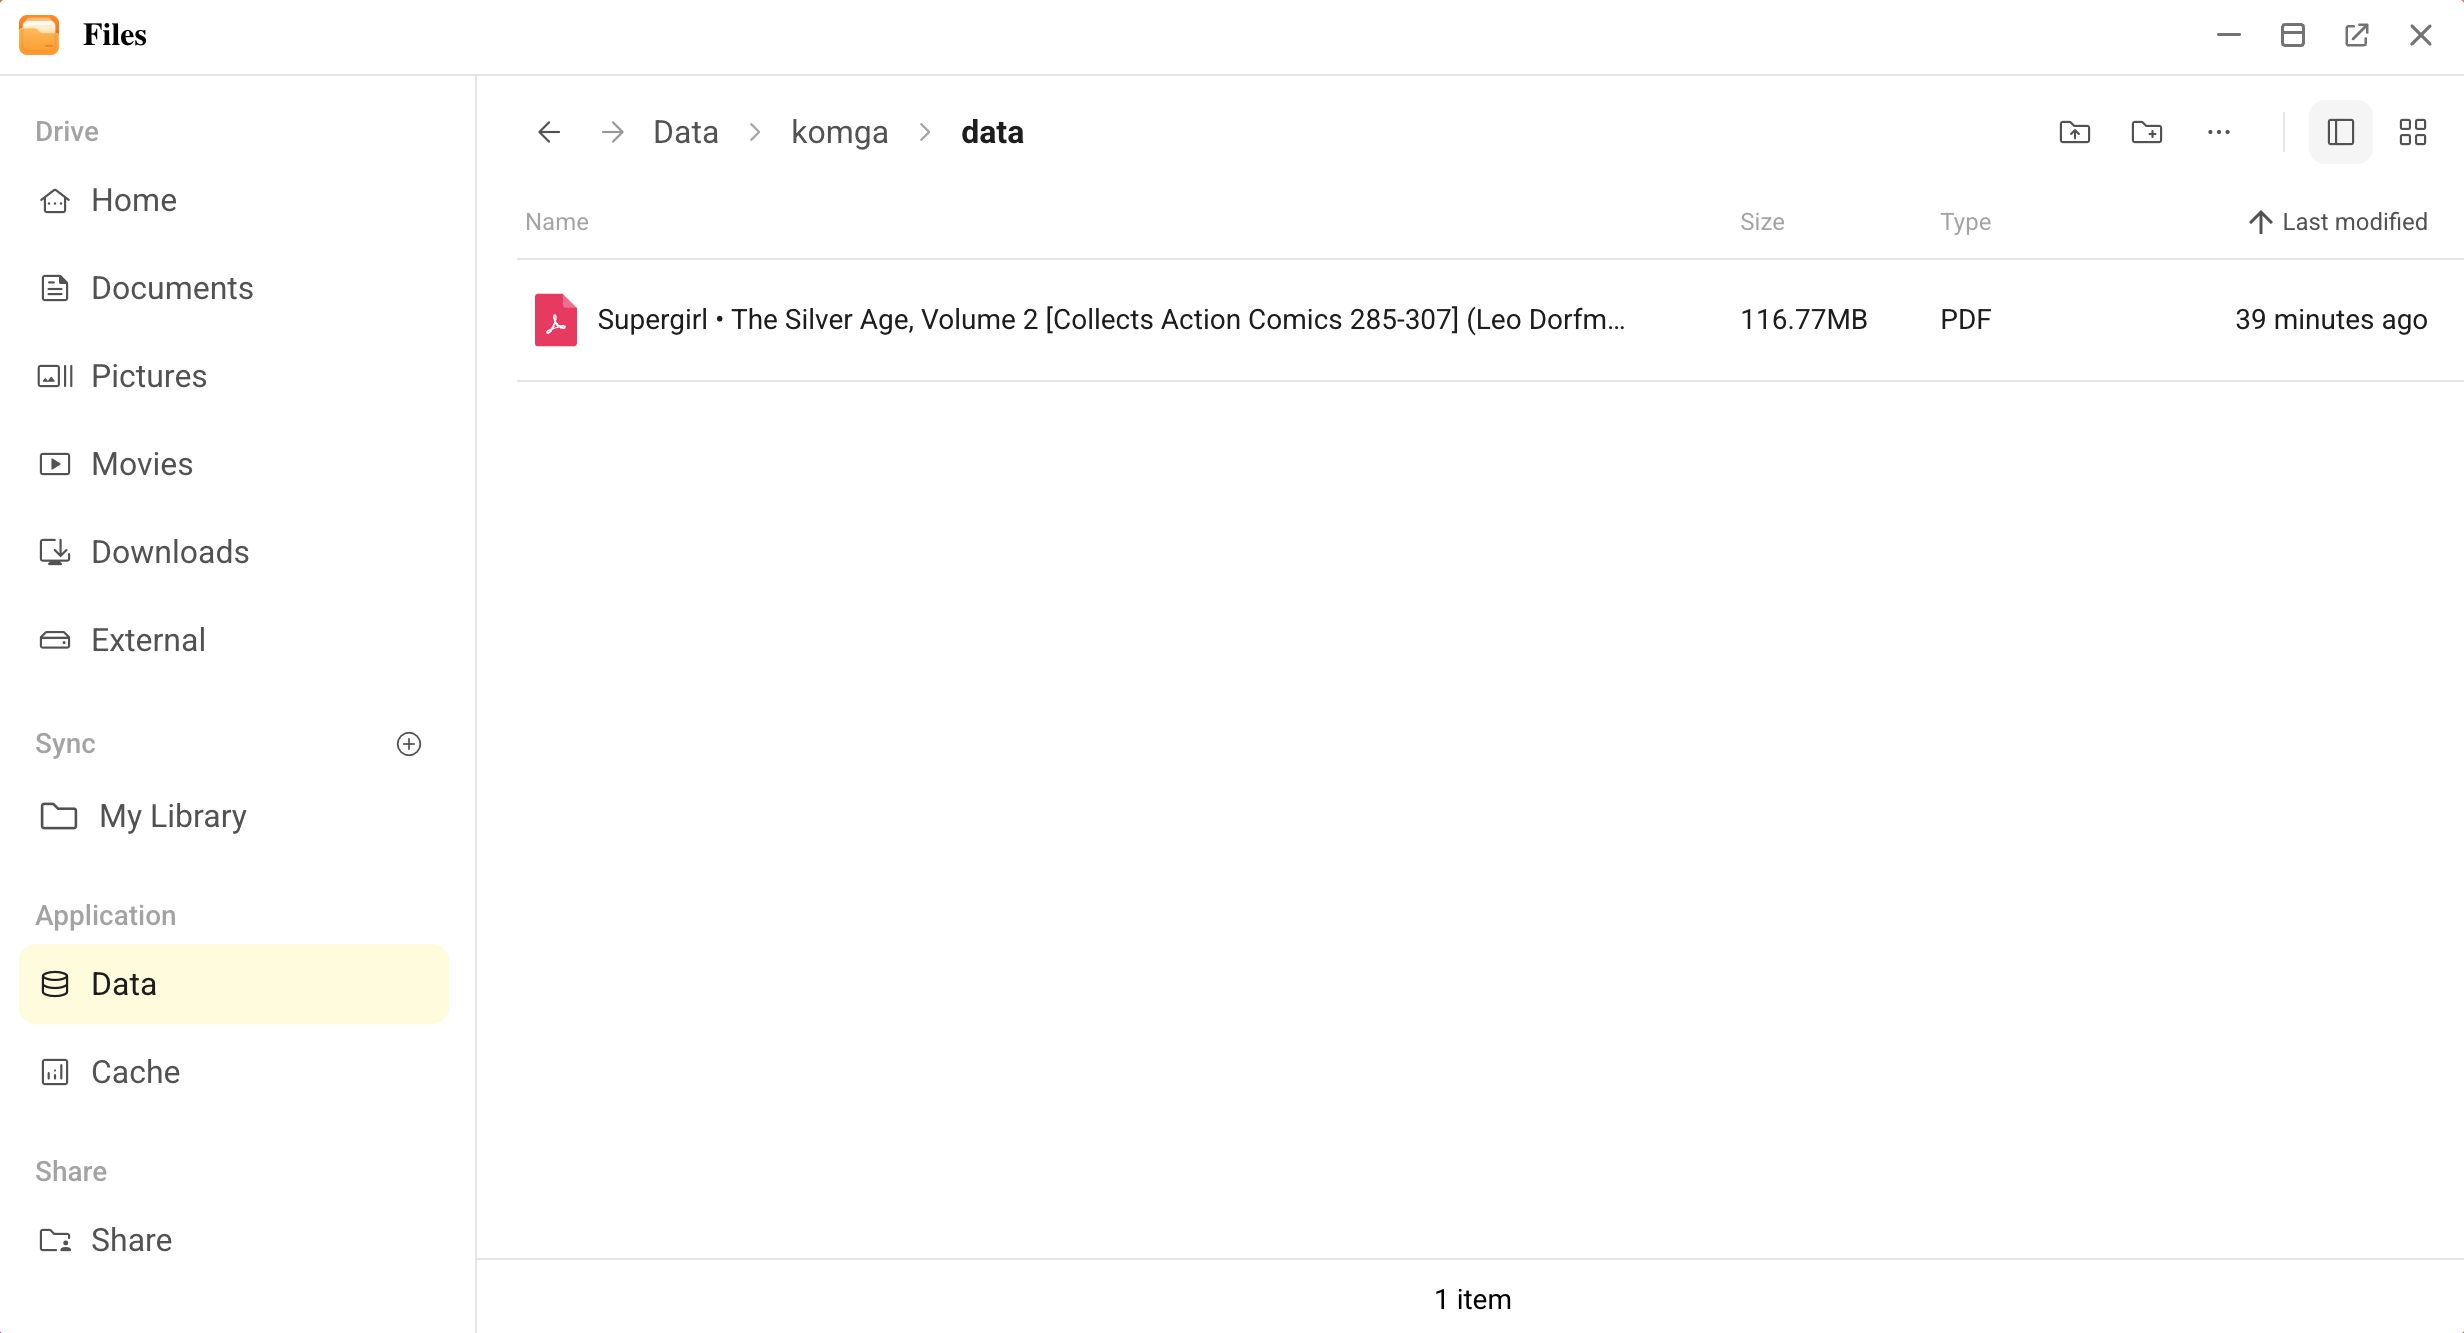
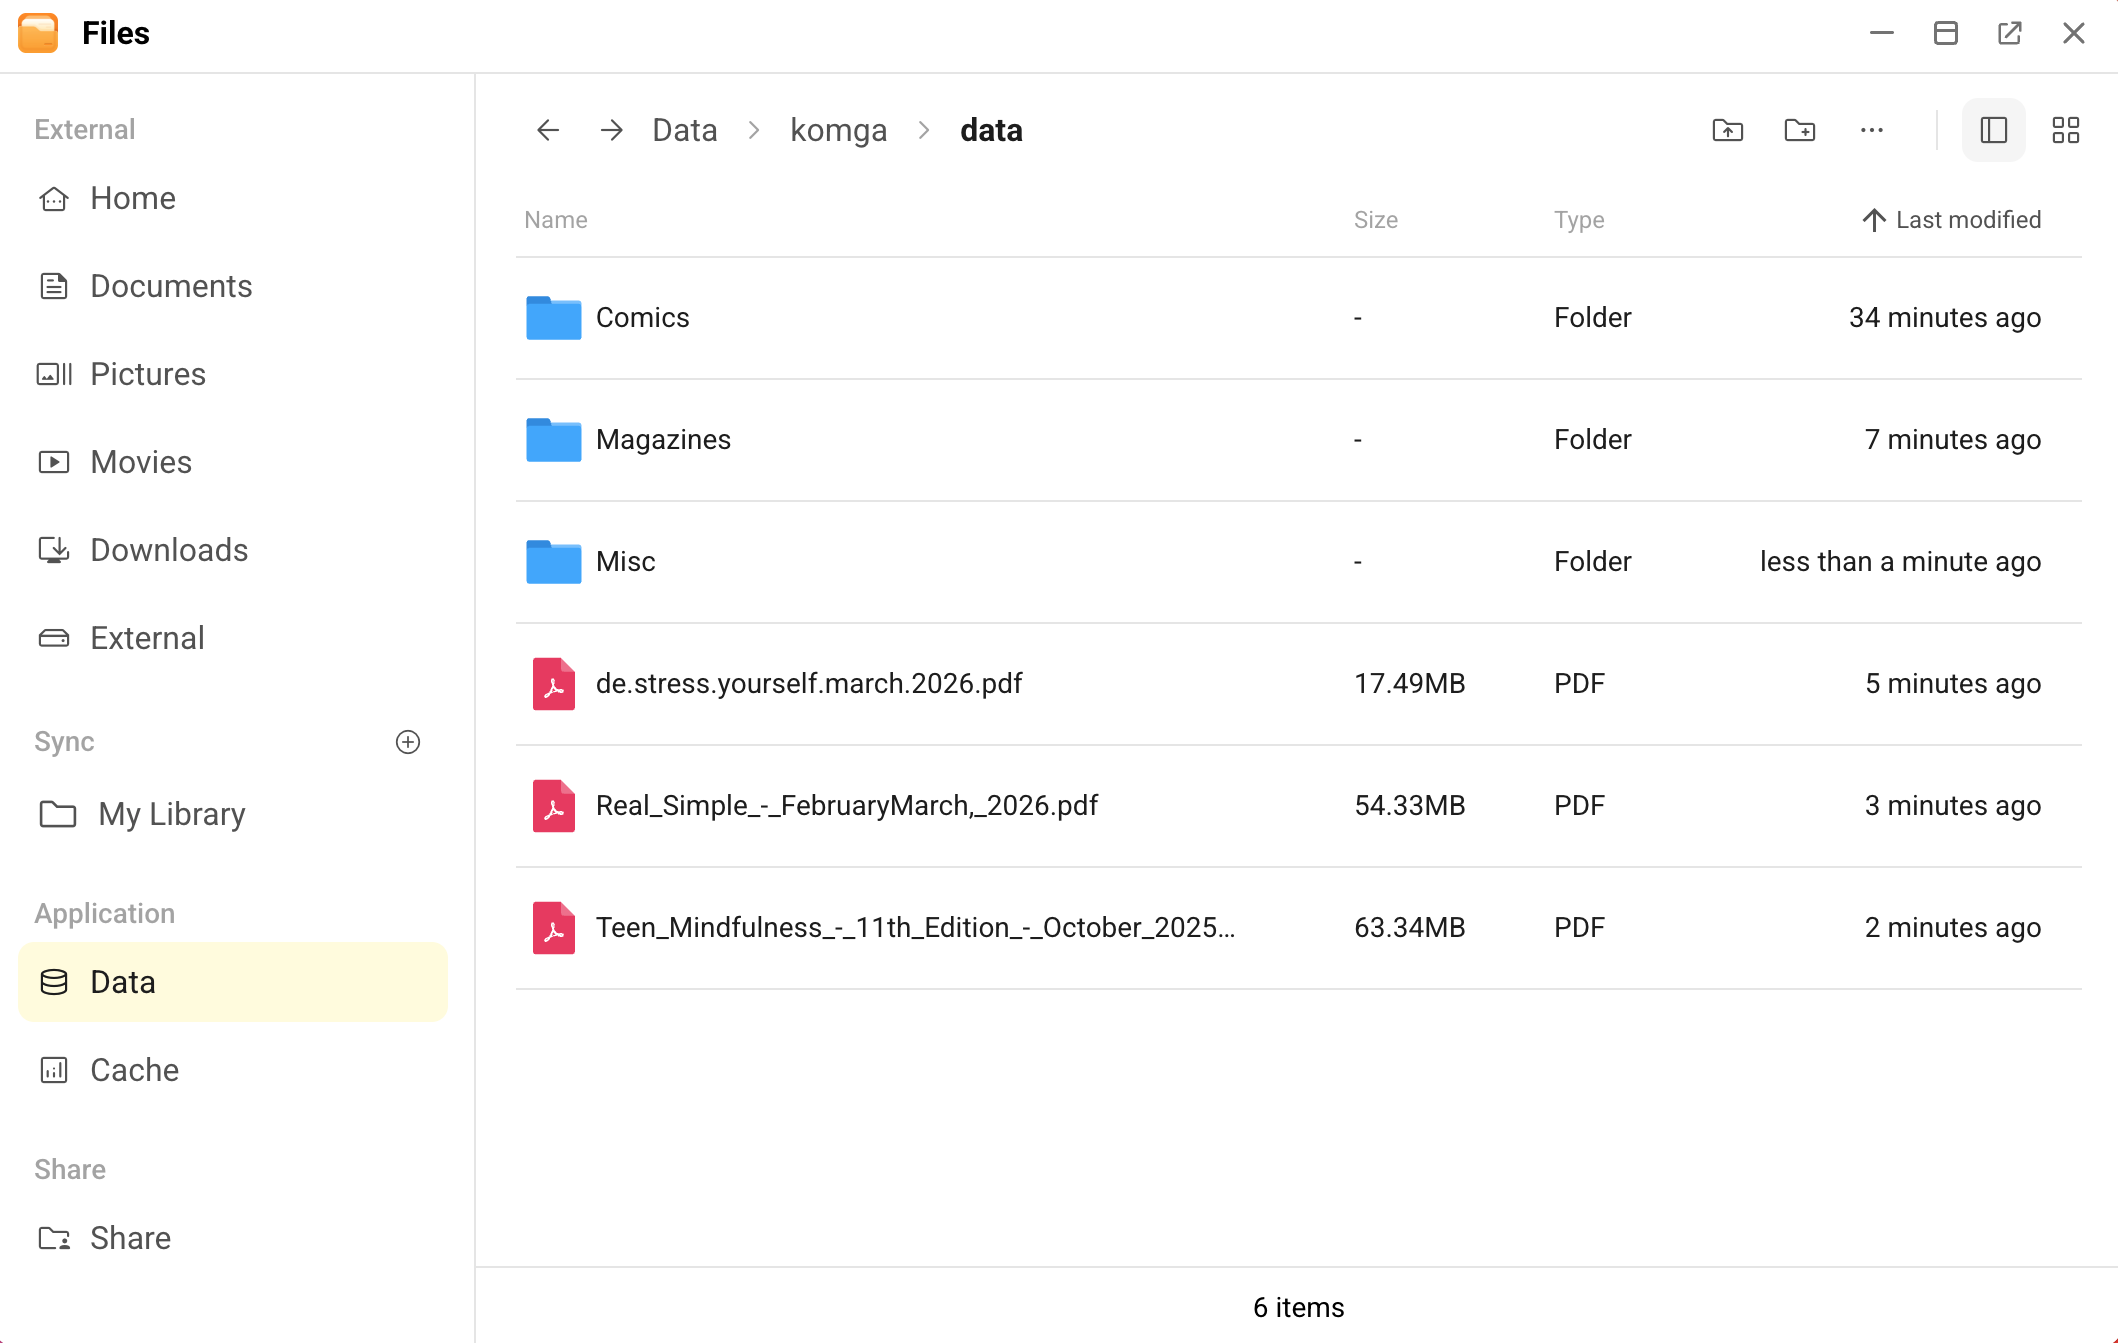
refine edits

diff --git a/docs/use-cases/komga.md b/docs/use-cases/komga.md
@@ -8,7 +8,7 @@ head:
 
 # Build your digital library with Komga
 
-Komga is a specialized, open-source media server designed to give you full control over your digital collection of comics, manga, magazines, and e-books. By installing Komga on Olares, you transform your device into a private media hub, organizing your favorite series into a beautiful, searchable library accessible from all your devices.
+Komga is a specialized, open-source media server designed to give you full control over your digital collection of comics, manga, Bandes Dessinées (BD), magazines, and e-books. By installing Komga on Olares, you transform your device into a private media hub, organizing your favorite series into a neat, searchable library accessible from all your devices.
 
 This guide shows you how to install Komga on Olares, organize your media files for automatic scanning, configure secure user access, and use the built-in reader and metadata editors to enhance your digital reading experience.
 
@@ -29,7 +29,7 @@ By the end of this guide, you are able to:
 
 2. Click **Get**, and then click **Install**. Wait for the installation to finish.
 
-## 2. Set up admin account
+## 2. Set up the admin account
 
 1. Open Komga.
 
@@ -44,7 +44,7 @@ By the end of this guide, you are able to:
 
 ## 3. Prepare your media files
 
-Komga scans a dedicated directory to populate your library. You must place your media files in the designated Olares folder for the application to detect them.
+Komga scans a dedicated Olares directory to populate your library. You must place your media files in the designated folder for the application to detect them.
 
 1. Open the Files app from the Dock or Launchpad on Olares.
 2. Go to **Data > komga > data**.
@@ -54,12 +54,14 @@ Komga scans a dedicated directory to populate your library. You must place your 
 
 ## 4. Create and scan a library
 
-After uploading your files, connect them to the Komga interface by creating a library.
+After uploading your files, connect them to the Komga interface by creating libraries.
 
 1. In **Komga**, click **ADD LIBRARY** on the main screen, or click <i class="material-symbols-outlined">add_2</i> next to **Libraries** from the left sidebar. The **Add Library** window appears.
 2. On the **GENERAL** tab, configure the following settings, and then click **NEXT**:
     - **Name**: Specify a name for the library.
-    - **Root folder**: Click **BROWSE** to choose the `/data` folder or a sub-folder you created.
+    - **Root folder**: Click **BROWSE** to choose the file location:
+        - Select the `/data` folder to include all media files and sub-folders in one large library.
+        - Select a sub-folder to limit this library's content to that specific category.
 
     ![Komga general settings](/images/manual/use-cases/komga-general.png#bordered){width=60%} 
 
